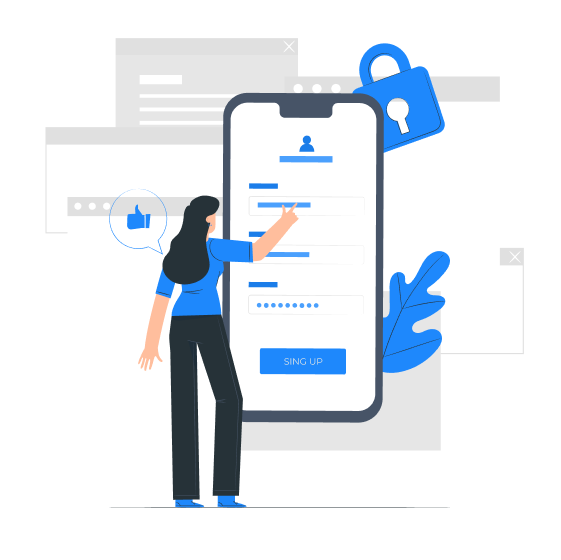
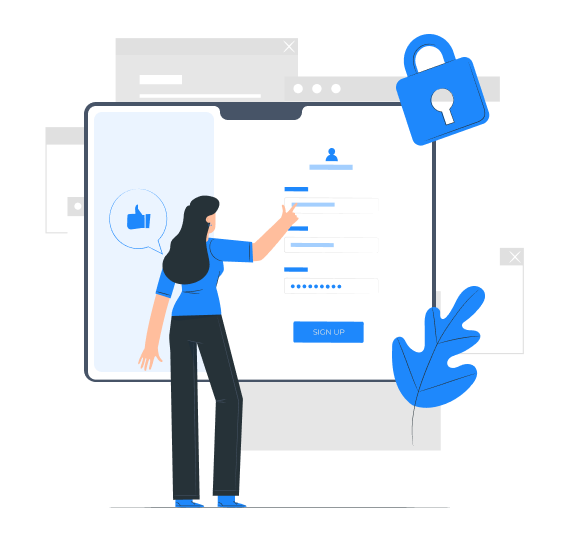
add Loader component; update axios configuration and add lucide-react dependency; replace login and payment images

Changed region(s): [[0.1515, 0.0607, 0.8788, 0.7589], [0.4848, 0.2429, 0.6364, 0.3036]]

diff --git a/src/components/app/Sidebar.tsx b/src/components/app/Sidebar.tsx
@@ -1,6 +1,267 @@
+import clsx from 'clsx';
+import { ReactNode, useMemo, useState } from 'react';
+import { Link, useLocation } from 'react-router';
+import {
+  LayoutDashboardIcon,
+  FolderIcon,
+  PieChartIcon,
+  SendIcon,
+  WorkflowIcon,
+  UsersIcon,
+  UserIcon,
+  LogOutIcon,
+  XIcon,
+  BriefcaseIcon,
+} from 'lucide-react';
+import { Button } from 'antd';
+
+interface MenuItem {
+  key: string;
+  icon: ReactNode;
+  label: string;
+  to: string;
+  active: boolean;
+}
+
 const Sidebar = () => {
+  const { pathname } = useLocation();
+
+  const MENU = [
+    {
+      key: '1',
+      label: 'Onboarding',
+      icon: <FolderIcon className="h-4 w-4" />,
+      to: '/onboarding',
+      active: pathname.startsWith('/onboarding'),
+    },
+    {
+      key: '2',
+      label: 'Dashboard',
+      icon: <LayoutDashboardIcon className="h-4 w-4" />,
+      to: '/dashboard',
+      active: pathname.startsWith('/dashboard'),
+    },
+    {
+      key: '3',
+      label: 'Accounts',
+      icon: <PieChartIcon className="h-4 w-4" />,
+      to: '/accounts',
+      active: pathname.startsWith('/accounts'),
+    },
+    {
+      key: '4',
+      label: 'Transfers',
+      icon: <SendIcon className="h-4 w-4" />,
+      to: '/transfers',
+      active: pathname.startsWith('/transfers'),
+    },
+    {
+      key: '5',
+      label: 'Transactions',
+      icon: <WorkflowIcon className="h-4 w-4" />,
+      to: '/transactions',
+      active: pathname.startsWith('/transactions'),
+    },
+    {
+      key: '6',
+      label: 'Beneficiaries',
+      icon: <UsersIcon className="h-4 w-4" />,
+      to: '/beneficiaries',
+      active: pathname.startsWith('/beneficiaries'),
+    },
+  ];
+
+  const disabled = useMemo(() => {
+    return pathname.includes('onboarding');
+  }, [pathname]);
+
+  const menuItems: MenuItem[] = useMemo(() => {
+    // if (!onboardingStatus?.completed || pathname.includes("onboarding")) {
+    //   return MENU;
+    // }
+    // return MENU.filter(item => item.key !== "1");
+
+    return MENU;
+
+    // eslint-disable-next-line react-hooks/exhaustive-deps
+  }, [pathname]);
+
   return (
-    <aside className="bg-secondary-400 max-lg:hidden no-scrollbar relative h-screen w-[200px] overflow-auto"></aside>
+    <aside className="no-scrollbar relative grid h-screen w-[200px] grid-rows-[auto_1fr] gap-6 overflow-y-auto bg-secondary-500 pb-6 max-lg:hidden">
+      {/* {loading && <Loader />} */}
+      <a
+        href="https://hellomemoney.com/"
+        className="sticky top-0 z-10 flex items-center justify-center gap-2 bg-secondary-500 pb-2 pt-6"
+      >
+        <img src="/images/hellome.png" alt="Hellomemoney" className="h-7 w-7" />
+        <p className="font-cabinet text-lg font-bold text-white no-underline">
+          HelloMe Money
+        </p>
+      </a>
+      <div className="space-y-12">
+        <nav className="space-y-8">
+          <ul className="space-y-2">
+            {menuItems.map(item => (
+              <li
+                key={item.key}
+                className={clsx(
+                  'border-0 border-r-4 border-solid transition-all duration-200 ease-linear hover:border-r-secondary-200 hover:bg-secondary-400',
+                  {
+                    'border-r-secondary-200 bg-secondary-400': item.active,
+                  },
+                  { 'border-r-transparent': !item.active },
+                  { 'opacity-50': disabled && !item.active },
+                )}
+              >
+                {disabled && !item.active ? (
+                  <p
+                    className={clsx(
+                      'mx-auto flex w-[80%] cursor-not-allowed items-center gap-2 py-2.5 text-base font-normal',
+                      !item.active && 'text-primary-300',
+                      item.active && 'text-white',
+                    )}
+                  >
+                    {item.icon}
+                    <span>{item.label}</span>
+                  </p>
+                ) : (
+                  <Link
+                    to={item.to}
+                    className={clsx(
+                      'mx-auto flex w-[80%] items-center gap-2 py-2.5 text-base font-normal',
+                      !item.active && 'text-primary-300',
+                      item.active && 'text-white',
+                    )}
+                  >
+                    {item.icon}
+                    <span>{item.label}</span>
+                  </Link>
+                )}
+              </li>
+            ))}
+          </ul>
+          <div className="mx-auto h-[1px] w-[85%] bg-primary-700" />
+          <ul className="space-y-2">
+            <li
+              className={clsx(
+                'border-0 border-r-4 border-solid transition-all duration-200 ease-linear hover:border-r-secondary-200 hover:bg-secondary-400',
+                {
+                  'border-r-secondary-200 bg-secondary-400':
+                    pathname.startsWith('/virtual-office'),
+                },
+                {
+                  'border-r-transparent':
+                    !pathname.startsWith('/virtual-office'),
+                },
+                {
+                  'opacity-50':
+                    disabled && !pathname.startsWith('/virtual-office'),
+                },
+              )}
+            >
+              {disabled ? (
+                <p
+                  className={clsx(
+                    'mx-auto flex w-[80%] items-center gap-2 py-2.5 text-base font-normal',
+                    !pathname.startsWith('/virtual-office') &&
+                      'cursor-not-allowed text-primary-300',
+                    pathname.startsWith('/virtual-office') && 'text-white',
+                  )}
+                >
+                  <BriefcaseIcon className="h-4 w-4" />
+                  <span>Virtual Office</span>
+                </p>
+              ) : (
+                <Link
+                  to="/virtual-office"
+                  className={clsx(
+                    'mx-auto flex w-[80%] items-center gap-2 py-2.5 text-base font-normal',
+                    !pathname.startsWith('/virtual-office') &&
+                      'text-primary-300',
+                    pathname.startsWith('/virtual-office') && 'text-white',
+                  )}
+                >
+                  <BriefcaseIcon className="h-4 w-4" />
+                  <span>Virtual Office</span>
+                </Link>
+              )}
+            </li>
+            <li
+              className={clsx(
+                'border-0 border-r-4 border-solid transition-all duration-200 ease-linear hover:border-r-secondary-200 hover:bg-secondary-400',
+                {
+                  'border-r-secondary-200 bg-secondary-400':
+                    pathname.startsWith('/profile'),
+                },
+                { 'border-r-transparent': !pathname.startsWith('/profile') },
+                { 'opacity-50': disabled && !pathname.startsWith('/profile') },
+              )}
+            >
+              {disabled ? (
+                <p
+                  className={clsx(
+                    'mx-auto flex w-[80%] items-center gap-2 py-2.5 text-base font-normal',
+                    !pathname.startsWith('/profile') &&
+                      'cursor-not-allowed text-primary-300',
+                    pathname.startsWith('/profile') && 'text-white',
+                  )}
+                >
+                  <UserIcon className="h-4 w-4" />
+                  <span>Profile</span>
+                </p>
+              ) : (
+                <Link
+                  to="/profile"
+                  className={clsx(
+                    'mx-auto flex w-[80%] items-center gap-2 py-2.5 text-base font-normal',
+                    !pathname.startsWith('/profile') && 'text-primary-300',
+                    pathname.startsWith('/profile') && 'text-white',
+                  )}
+                >
+                  <UserIcon className="h-4 w-4" />
+                  <span>Profile</span>
+                </Link>
+              )}
+            </li>
+            <li className="cursor-pointer border-0 border-r-4 border-solid transition-all duration-200 ease-linear hover:border-r-secondary-200 hover:bg-secondary-400">
+              <p className="mx-auto flex w-[80%] items-center gap-2 py-2.5 text-base font-normal text-primary-300">
+                <LogOutIcon className="h-4 w-4" />
+                <span>Log out</span>
+              </p>
+            </li>
+          </ul>
+        </nav>
+        <Closable />
+      </div>
+    </aside>
   );
 };
+
+const Closable = () => {
+  const [open, setOpen] = useState(true);
+
+  if (!open) return null;
+
+  return (
+    <div className="mx-auto flex w-[90%] flex-col gap-4 rounded-xl bg-secondary-400 px-2 pt-1 !text-[#5D9ADC]">
+      <Button
+        type="text"
+        icon={<XIcon className="h-4 w-4" />}
+        className="self-end !text-[#5D9ADC]"
+        onClick={() => setOpen(false)}
+      />
+      <p className="px-2 text-base font-medium">
+        Global banking for future-proof businesses
+      </p>
+      <div className="grid place-items-center">
+        <img
+          src="/images/sidebar-banner.png"
+          alt="banner"
+          className="w-full object-contain"
+        />
+      </div>
+    </div>
+  );
+};
+
 export default Sidebar;

diff --git a/src/components/app/Loader.tsx b/src/components/app/Loader.tsx
@@ -1,0 +1,10 @@
+import { Spin } from "antd";
+
+const Loader = () => {
+  return (
+    <div className="fixed left-0 top-0 z-[99999] grid h-screen w-screen place-items-center bg-black/60">
+      <Spin size="large" />
+    </div>
+  );
+};
+export default Loader;

diff --git a/src/lib/axios.ts b/src/lib/axios.ts
@@ -3,10 +3,6 @@ import axios from 'axios';
 
 const api = axios.create({
   baseURL: ENDPOINTS.APP_BASE_URL,
-  headers: {
-    'Content-Type': 'application/json',
-  },
-  validateStatus: status => status < 500,
 });
 
 api.interceptors.request.use(
